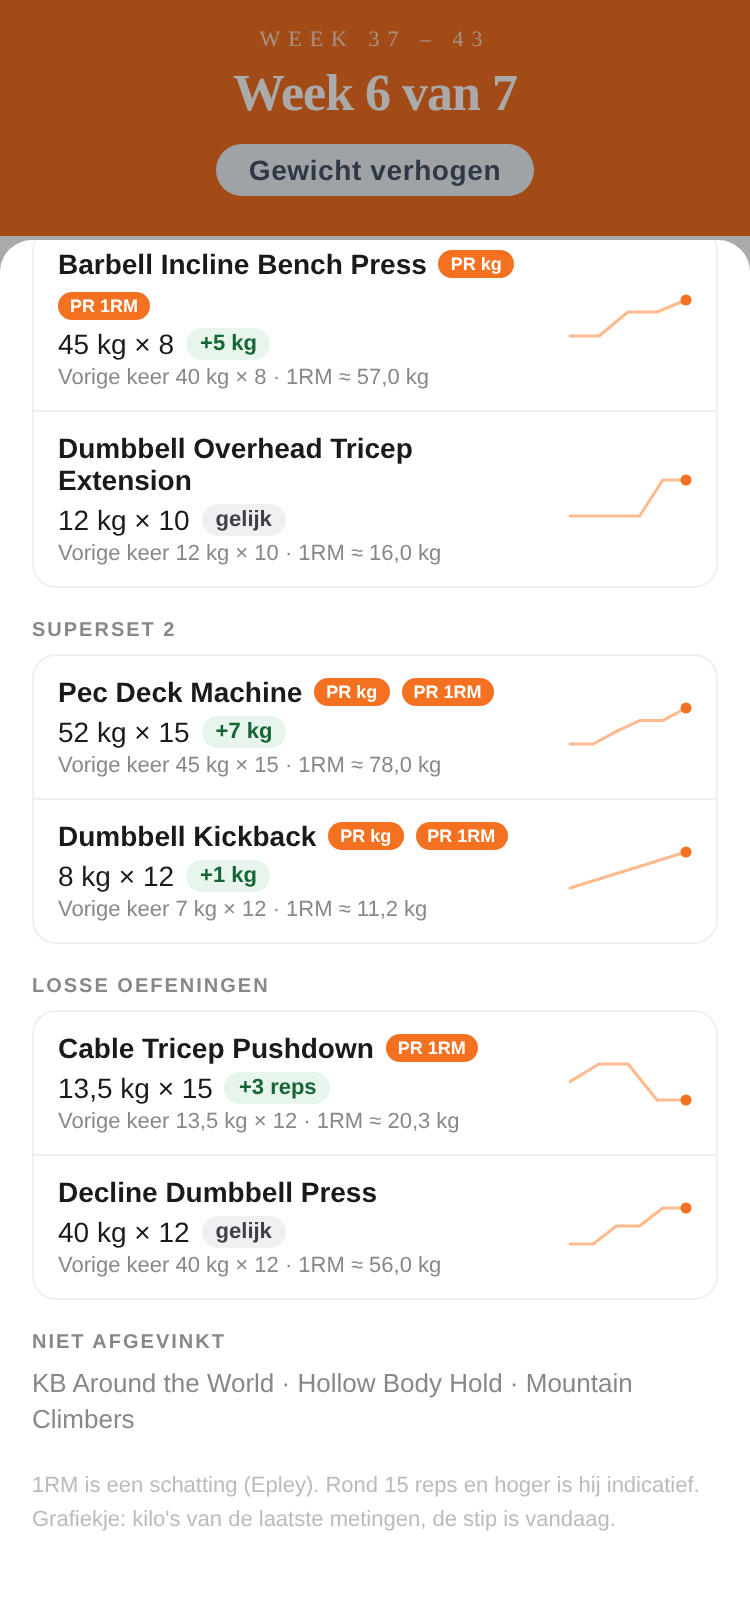
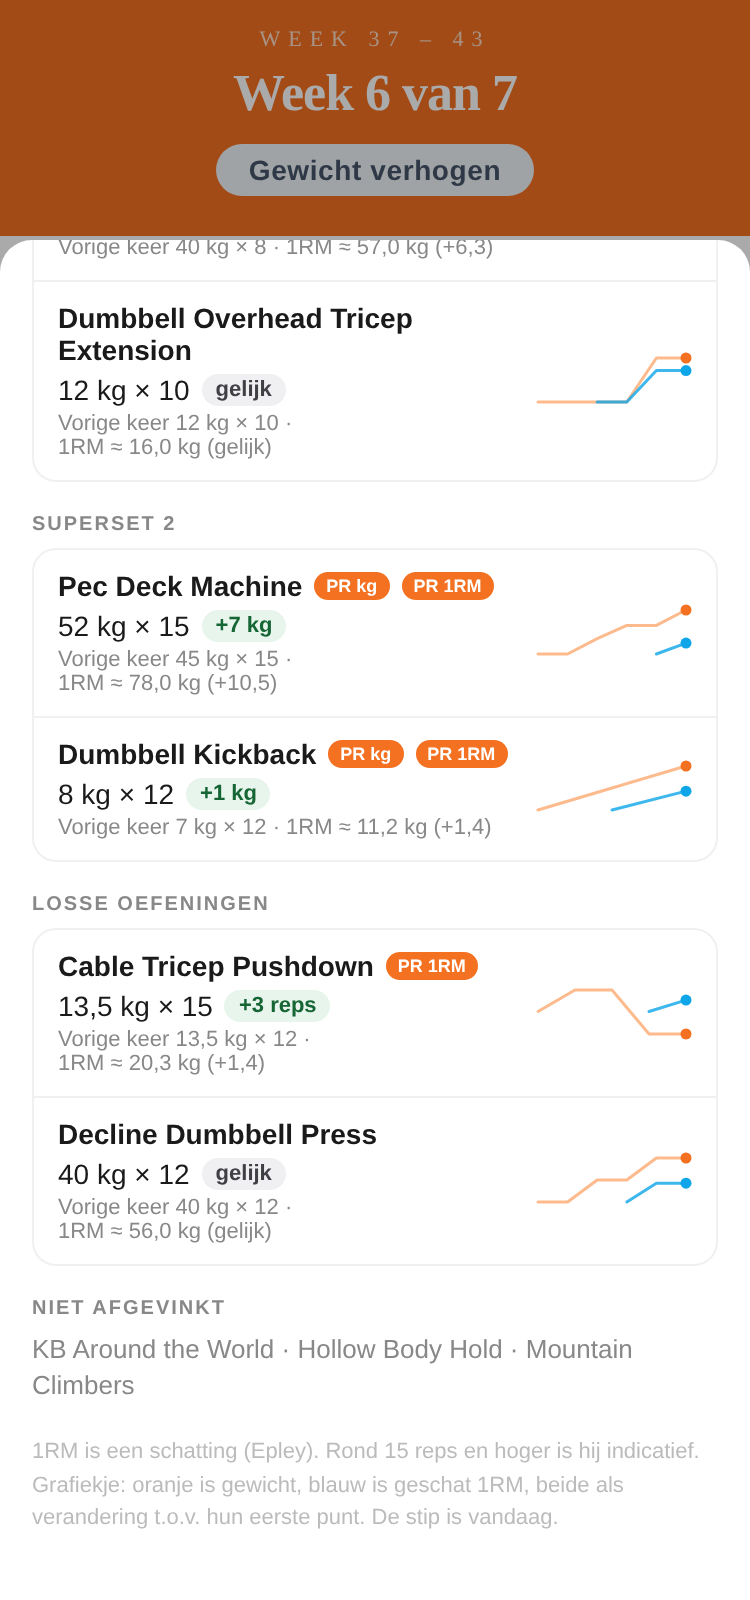
workout-app: day summary — rep-range chip, 1RM delta, e1RM sparkline line
- Delta chip reads "nieuw repbereik" when the prescribed upper bound
  (parsePrescribedReps) differs from the "vorige keer" week and kg changed,
  or kg is equal without a usable reps difference. Unknown prescription or a
  swap in either week falls back to the normal delta. PR logic unchanged.
- Small line shows the e1RM delta vs. the "vorige keer" week, computed
  from the two displayed one-decimal values.
- Sparkline (80x28) adds a blue e1RM line next to the orange kg line, both
  as % change vs. their own first point on one shared scale (min. 10-point
  span), never bridging weeks without usable reps.

Claude-Session: https://claude.ai/code/session_01AXh5WKYKC1YrrR2u1ACW33

diff --git a/workout-app/fitness_schema.jsx b/workout-app/fitness_schema.jsx
@@ -152,12 +152,27 @@ function measuredWeeksM(exercise, weights) {
   return out.sort((a, b) => a.week - b.week);
 }
 
+// Whether `name` took part in an exercise swap in `weekNum` (as original or
+// replacement). Swapped weeks have no reliable prescription for the name.
+function swappedInWeek(name, weekNum, swaps) {
+  return Object.entries(swaps).some(([k, v]) => {
+    const [original, w] = k.split("__");
+    return Number(w) === weekNum && (original === name || v === name);
+  });
+}
+
 // Day summary row for one exercise in one week (person M). "Vorige keer"
 // is findPrevWeight, the same lookup as the "Laatste keer" line. PRs are
 // strictly greater than every earlier (lower) week; ties and "no earlier
 // week" are not a PR. PR 1RM needs usable reps today and only compares
 // against earlier weeks that have usable reps.
-function summarizeExercise(name, weekNum, weights) {
+//
+// A different prescribed upper bound (prescribedReps, already
+// parsePrescribedReps' upper bound) between today and the "vorige keer" week
+// means a planned rep-range switch: a kg change then reads "nieuw
+// repbereik" instead of a misleading kg delta. Unknown prescription in
+// either week, or a swap, falls back to the normal delta.
+function summarizeExercise(name, weekNum, weights, prescribedReps = {}, swaps = {}) {
   const entry = weights[wKey(name, weekNum)];
   const kg = Number(entry?.M);
   const reps = usableReps(entry?.repsM);
@@ -167,24 +182,41 @@ function summarizeExercise(name, weekNum, weights) {
   const prevKg = prevResult && prevResult.M !== "" && prevResult.M != null ? Number(prevResult.M) : null;
   const prevReps = prevResult ? usableReps(prevResult.repsM) : null;
 
+  const presToday = prescribedReps[wKey(name, weekNum)];
+  const presPrev = prevResult ? prescribedReps[wKey(name, prevResult.weekNum)] : undefined;
+  const newRepRange = presToday != null && presPrev != null && presToday !== presPrev
+    && !swappedInWeek(name, weekNum, swaps) && !swappedInWeek(name, prevResult.weekNum, swaps);
+
   let delta;
   if (prevKg == null) delta = { label: "eerste meting", up: false };
   else if (kg !== prevKg) {
     const d = Math.round((kg - prevKg) * 100) / 100;
-    delta = { label: `${d > 0 ? "+" : "−"}${formatNl(Math.abs(d))} kg`, up: d > 0 };
+    delta = newRepRange
+      ? { label: "nieuw repbereik", up: false }
+      : { label: `${d > 0 ? "+" : "−"}${formatNl(Math.abs(d))} kg`, up: d > 0 };
   } else if (reps != null && prevReps != null && reps !== prevReps) {
     const d = reps - prevReps;
     delta = { label: `${d > 0 ? "+" : "−"}${Math.abs(d)} ${Math.abs(d) === 1 ? "rep" : "reps"}`, up: d > 0 };
-  } else delta = { label: "gelijk", up: false };
+  } else delta = { label: newRepRange ? "nieuw repbereik" : "gelijk", up: false };
+
+  // e1RM delta from the two displayed (one-decimal) values, in tenths, so
+  // the shown numbers always add up.
+  const prevE1rm = prevKg != null && prevReps != null ? estimatedOneRepMax(prevKg, prevReps) : null;
+  let e1rmDelta = null;
+  if (e1rm != null && prevE1rm != null) {
+    const t = Math.round(e1rm * 10) - Math.round(prevE1rm * 10);
+    e1rmDelta = t === 0 ? "gelijk" : `${t > 0 ? "+" : "−"}${formatNl(Math.abs(t) / 10, 1)}`;
+  }
 
   const measured = measuredWeeksM(name, weights);
   const earlier = measured.filter(m => m.week < weekNum);
   const prKg = earlier.length > 0 && kg > Math.max(...earlier.map(m => m.kg));
   const earlier1rm = earlier.filter(m => m.reps != null).map(m => estimatedOneRepMax(m.kg, m.reps));
   const pr1rm = e1rm != null && earlier1rm.length > 0 && e1rm > Math.max(...earlier1rm);
-  const spark = measured.filter(m => m.week <= weekNum).slice(-6).map(m => m.kg);
+  const spark = measured.filter(m => m.week <= weekNum).slice(-6)
+    .map(m => ({ kg: m.kg, e1rm: m.reps != null ? estimatedOneRepMax(m.kg, m.reps) : null }));
 
-  return { name, kg, reps, e1rm, prevKg, prevReps, delta, prKg, pr1rm, spark };
+  return { name, kg, reps, e1rm, e1rmDelta, prevKg, prevReps, delta, prKg, pr1rm, spark };
 }
 
 // Whether the selected day has anything to summarize: a score row, a
@@ -1649,7 +1681,7 @@ export default function FitnessSchema() {
                 .filter(ex => ex?.name)
                 .map(displayName)
                 .filter(name => { const m = weights[wKey(name, week.week)]?.M; return m !== "" && m != null; })
-                .map(name => summarizeExercise(name, week.week, weights)),
+                .map(name => summarizeExercise(name, week.week, weights, prescribedReps, swaps)),
             }))
             .filter(g => g.rows.length > 0);
           notCompleted = [...day.kettlebell, ...day.core]
@@ -2474,24 +2506,57 @@ function BottomSheet({ currentExercise, exercises, onSelect, onClose }) {
   );
 }
 
-// 64x24 kg sparkline for the day summary: the measured points in order
-// (no gap handling), today's point — always the last one — as a dot.
-function Sparkline({ values }) {
-  const W = 64, H = 24, PAD = 3;
-  if (!values.length) return null;
-  const min = Math.min(...values);
-  const max = Math.max(...values);
-  const pts = values.map((v, i) => [
-    values.length === 1 ? W / 2 : PAD + (i * (W - 2 * PAD)) / (values.length - 1),
-    max === min ? H / 2 : H - PAD - ((v - min) * (H - 2 * PAD)) / (max - min),
-  ]);
-  const [lx, ly] = pts[pts.length - 1];
+// 80x28 sparkline for the day summary over the last <=6 measured weeks:
+// orange = kg, blue = estimated 1RM (weeks with usable reps only, never
+// bridged over a week without). Both are % change vs. their own first
+// point in the window, on one shared y-scale with a minimum 10-point span
+// so a small change doesn't look steep. Today is always the last point.
+function Sparkline({ points }) {
+  const W = 80, H = 28, PAD = 3;
+  if (!points.length) return null;
+  const pct = (v, base) => (v / base - 1) * 100;
+  const kgPct = points.map(p => pct(p.kg, points[0].kg));
+  const firstE = points.find(p => p.e1rm != null)?.e1rm;
+  const ePct = points.map(p => (p.e1rm != null ? pct(p.e1rm, firstE) : null));
+  const all = [0, ...kgPct, ...ePct.filter(v => v != null)];
+  let lo = Math.min(...all), hi = Math.max(...all);
+  if (hi - lo < 10) { const mid = (hi + lo) / 2; lo = mid - 5; hi = mid + 5; }
+  const x = (i) => (points.length === 1 ? W / 2 : PAD + (i * (W - 2 * PAD)) / (points.length - 1));
+  const y = (v) => H - PAD - ((v - lo) * (H - 2 * PAD)) / (hi - lo);
+  // Runs of consecutive points that have an e1RM.
+  const runs = [];
+  ePct.forEach((v, i) => {
+    if (v == null) return;
+    if (i > 0 && ePct[i - 1] != null) runs[runs.length - 1].push(i);
+    else runs.push([i]);
+  });
+  const last = points.length - 1;
+  const signed = (v) => `${v >= 0 ? "+" : "−"}${formatNl(Math.abs(v), 1)}%`;
+  const lastE = ePct[last] ?? [...ePct].reverse().find(v => v != null);
+  const label = `Gewicht ${signed(kgPct[last])}${firstE != null ? ` en geschat 1RM ${signed(lastE)}` : ""} ten opzichte van het eerste punt in het grafiekje`;
   return (
-    <svg width={W} height={H} viewBox={`0 0 ${W} ${H}`} aria-hidden="true" style={{ flexShrink: 0, display: "block" }}>
-      {pts.length > 1 && (
-        <polyline points={pts.map(p => p.join(",")).join(" ")} fill="none" stroke="#fdba8c" strokeWidth="1.5" strokeLinecap="round" strokeLinejoin="round" />
+    <svg width={W} height={H} viewBox={`0 0 ${W} ${H}`} role="img" aria-label={label} style={{ flexShrink: 0, display: "block" }}>
+      {points.length > 1 && (
+        <polyline points={kgPct.map((v, i) => `${x(i)},${y(v)}`).join(" ")} fill="none" stroke="#fdba8c" strokeWidth="1.5" strokeLinecap="round" strokeLinejoin="round" />
       )}
-      <circle cx={lx} cy={ly} r="2.75" fill="#f37121" />
+      {runs.map((run, j) => run.length > 1
+        ? <polyline key={j} data-line="e1rm" points={run.map(i => `${x(i)},${y(ePct[i])}`).join(" ")} fill="none" stroke="#0ea5e9" strokeWidth="1.5" strokeLinecap="round" strokeLinejoin="round" strokeOpacity="0.8" />
+        : run[0] !== last && <circle key={j} data-line="e1rm" cx={x(run[0])} cy={y(ePct[run[0]])} r="1.5" fill="#0ea5e9" />
+      )}
+      {/* Today's dots. When both land on the same spot (same % change),
+          the blue one becomes a ring around the orange one so both stay
+          visible. */}
+      {ePct[last] != null && Math.abs(y(ePct[last]) - y(kgPct[last])) < 3 ? (
+        <>
+          <circle data-dot="e1rm" cx={x(last)} cy={y(ePct[last])} r="3.5" fill="#0ea5e9" />
+          <circle data-dot="kg" cx={x(last)} cy={y(kgPct[last])} r="2" fill="#f37121" />
+        </>
+      ) : (
+        <>
+          <circle data-dot="kg" cx={x(last)} cy={y(kgPct[last])} r="2.75" fill="#f37121" />
+          {ePct[last] != null && <circle data-dot="e1rm" cx={x(last)} cy={y(ePct[last])} r="2.75" fill="#0ea5e9" />}
+        </>
+      )}
     </svg>
   );
 }
@@ -2611,12 +2676,14 @@ function DaySummarySheet({ day, weekNum, phase, datum, score, groups, notComplet
                           <div style={{ fontFamily: "sans-serif", fontSize: 11, color: "#888", marginTop: 3 }}>
                             {[
                               r.prevKg != null ? `Vorige keer ${formatNl(r.prevKg)} kg${r.prevReps != null ? ` × ${r.prevReps}` : ""}` : null,
-                              r.e1rm != null ? `1RM ≈ ${formatNl(r.e1rm, 1)} kg` : null,
-                            ].filter(Boolean).join(" · ")}
+                              r.e1rm != null ? `1RM ≈ ${formatNl(r.e1rm, 1)} kg${r.e1rmDelta ? ` (${r.e1rmDelta})` : ""}` : null,
+                            ].filter(Boolean).map((part, k) => (
+                              <span key={k}>{k > 0 && " · "}<span style={{ whiteSpace: "nowrap" }}>{part}</span></span>
+                            ))}
                           </div>
                         )}
                       </div>
-                      <Sparkline values={r.spark} />
+                      <Sparkline points={r.spark} />
                     </div>
                   ))}
                 </div>
@@ -2631,7 +2698,7 @@ function DaySummarySheet({ day, weekNum, phase, datum, score, groups, notComplet
             )}
 
             <div style={{ fontFamily: "sans-serif", fontSize: 11, color: "#bbb", lineHeight: 1.5 }}>
-              1RM is een schatting (Epley). Rond 15 reps en hoger is hij indicatief. Grafiekje: kilo's van de laatste metingen, de stip is vandaag.
+              1RM is een schatting (Epley). Rond 15 reps en hoger is hij indicatief. Grafiekje: oranje is gewicht, blauw is geschat 1RM, beide als verandering t.o.v. hun eerste punt. De stip is vandaag.
             </div>
           </>
         )}
